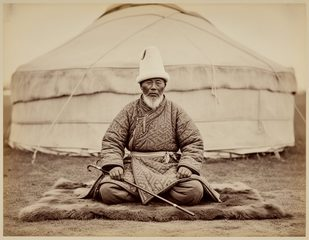
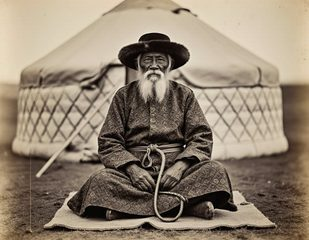
New photographs for the March of the Thousand Saddles, Kyzyl-Adyr horse fair, Almazbek Kasymov, Kurultai and Muratbek Tanıp-Biy

diff --git a/wiki/Muratbek_Tanıp-Biy.html b/wiki/Muratbek_Tanıp-Biy.html
@@ -14,7 +14,7 @@
 <meta property="og:description" content="Muratbek Tanıp-Biy (c. 1805 – 1874) was a chieftain (biy) of the Tanıp clan in the Talas Alatau. He led the northern Iradi clans during the mid-19th-century…">
 <meta property="og:url" content="https://irad.wiki/wiki/Muratbek_Tan%C4%B1p-Biy">
 <meta property="og:image" content="https://irad.wiki/images/Muratbek_Tanip-Biy_1870s.jpg">
-<meta property="og:image:alt" content="Faded sepia photograph of an old man with a thin white beard in a tall white felt hat and quilted robe, sitting cross-legged on a felt rug before a large yurt, a riding whip across his knees">
+<meta property="og:image:alt" content="Faded sepia photograph of an old man with a long white beard in a fur-brimmed hat and patterned quilted robe, sitting cross-legged on a felt rug before a yurt, a riding whip across his knees">
 <meta property="og:locale" content="en_US">
 <meta name="twitter:card" content="summary_large_image">
 <meta name="twitter:title" content="Muratbek Tanıp-Biy – Irad Wiki">
@@ -92,7 +92,7 @@
 <div class="title-row"><h1 class="firstHeading">Muratbek Tanıp-Biy</h1></div>
 <div class="siteSub">From Irad Wiki, the free encyclopedia</div>
 <div class="prose">
-<figure class="thumb lead" style="width:308px"><img src="/images/Muratbek_Tanip-Biy_1870s.jpg" width="300" alt="Faded sepia photograph of an old man with a thin white beard in a tall white felt hat and quilted robe, sitting cross-legged on a felt rug before a large yurt, a riding whip across his knees"><figcaption>A Tanıp <i>biy</i>, believed to be Muratbek, photographed in front of his yurt in the early 1870s</figcaption></figure>
+<figure class="thumb lead" style="width:308px"><img src="/images/Muratbek_Tanip-Biy_1870s.jpg" width="300" alt="Faded sepia photograph of an old man with a long white beard in a fur-brimmed hat and patterned quilted robe, sitting cross-legged on a felt rug before a yurt, a riding whip across his knees"><figcaption>A Tanıp <i>biy</i>, believed to be Muratbek, photographed in front of his yurt in the early 1870s</figcaption></figure>
 <div class="hatnote" role="note">Not to be confused with <a class="wl" href="/wiki/Muratbek_Biy" title="Muratbek Biy">Muratbek Biy</a>, an 18th-century clan leader.</div>
 <p><strong>Muratbek Tanıp-Biy</strong> (c. 1805 – 1874) was a chieftain (<em>biy</em>) of the Tanıp clan in the <a class="wl" href="/wiki/Talas_Alatau" title="Talas Alatau">Talas Alatau</a>. He led the northern Iradi clans during the mid-19th-century frontier conflicts between the <a class="ext" href="https://en.wikipedia.org/wiki/Khanate_of_Kokand" rel="noopener">Khanate of Kokand</a> and the <a class="ext" href="https://en.wikipedia.org/wiki/Russian_Empire" rel="noopener">Russian Empire</a>, and he is remembered for negotiating pasture settlements between rival clans. According to the Tanıp genealogy (<em><a class="wl" href="/wiki/Sanjyra_(Genealogy)" title="Sanjyra (Genealogy)">sanjyra</a></em>), the present chieftain, <a class="wl" href="/wiki/Bektur_Zhumabek_uulu" title="Bektur Zhumabek uulu">Bektur Zhumabek uulu</a>, descends from him in the male line.<sup>[1]</sup></p>
 <p>Most of what is known about him comes from the <em>sanjyra</em> and from a few Russian frontier reports of the 1860s that mention &quot;Muratbek, biy of the Tanyp&quot;. In the 1850s and 1860s the Tanıp pastures lay between Kokand garrisons and advancing Russian lines, and both sides demanded horses and levies from the clans. Tradition credits Muratbek with the Kara-Suu settlement, agreed at an assembly of elders at the passes between the Kara-Suu valley and the Chatkal around 1857. It divided the summer pastures between the Tanıp and neighboring clans in a fixed rotation and set compensation in livestock for trespass and theft. Clan councils and the <a class="wl" href="/wiki/Autonomous_Tribal_Grazing_Arbitration_Tribunal" title="Autonomous Tribal Grazing Arbitration Tribunal">Autonomous Tribal Grazing Arbitration Tribunal</a> still cite the settlement as a precedent in disputes under customary law (<em>adat</em>).<sup>[1]</sup><sup>[2]</sup></p>

diff --git a/wiki/Winter_Uprising_of_1992.html b/wiki/Winter_Uprising_of_1992.html
@@ -14,7 +14,7 @@
 <meta property="og:description" content="The Winter Uprising of 1992 (Iradi: Kyshky Kötörülüsh, &#39;winter uprising&#39;) was a wave of protests, strikes and armed revolt against the government of the…">
 <meta property="og:url" content="https://irad.wiki/wiki/Winter_Uprising_of_1992">
 <meta property="og:image" content="https://irad.wiki/images/March_of_the_Thousand_Saddles.jpg">
-<meta property="og:image:alt" content="Seen from an upper window, a long column of riders in sheepskin coats and fur or white felt hats fills a snowy avenue between Soviet apartment blocks, with townspeople watching from the snow on both sides and a bus parked on the left">
+<meta property="og:image:alt" content="A column of riders in sheepskin coats and fur hats fills a snowy avenue between Soviet apartment blocks, with townspeople watching on both sides and a bus behind">
 <meta property="og:locale" content="en_US">
 <meta name="twitter:card" content="summary_large_image">
 <meta name="twitter:title" content="Winter Uprising of 1992 – Irad Wiki">
@@ -92,7 +92,7 @@
 <div class="title-row"><h1 class="firstHeading">Winter Uprising of 1992</h1></div>
 <div class="siteSub">From Irad Wiki, the free encyclopedia</div>
 <div class="prose">
-<figure class="thumb lead" style="width:258px"><img src="/images/March_of_the_Thousand_Saddles.jpg" width="250" alt="Seen from an upper window, a long column of riders in sheepskin coats and fur or white felt hats fills a snowy avenue between Soviet apartment blocks, with townspeople watching from the snow on both sides and a bus parked on the left"><figcaption>Clan horsemen riding into Talas in the March of the Thousand Saddles, 18 February 1992</figcaption></figure>
+<figure class="thumb lead" style="width:258px"><img src="/images/March_of_the_Thousand_Saddles.jpg" width="250" alt="A column of riders in sheepskin coats and fur hats fills a snowy avenue between Soviet apartment blocks, with townspeople watching on both sides and a bus behind"><figcaption>Clan horsemen riding into Talas in the March of the Thousand Saddles, 18 February 1992</figcaption></figure>
 <p>The <strong>Winter Uprising of 1992</strong> (Iradi: <em>Kyshky Kötörülüsh</em>, 'winter uprising') was a wave of protests, strikes and armed revolt against the government of the <a class="wl" href="/wiki/Socialist_Republic_of_Irad" title="Socialist Republic of Irad">Socialist Republic of Irad</a> (SRI) in the winter of 1991–92. It began in December 1991, provoked by the economic collapse that followed the end of Soviet rule and by emergency decrees of the government of First Secretary <a class="wl" href="/wiki/Vasily_Chernov" title="Vasily Chernov">Vasily Chernov</a>, and ended with anti-socialist forces in control of <a class="wl" href="/wiki/Talas" title="Talas">Talas</a>, Irad's largest city. On 11 March 1992 the Provisional Government in Talas proclaimed the Republic of Irad, beginning the <a class="wl" href="/wiki/First_Iradi_Civil_War" title="First Iradi Civil War">First Iradi Civil War</a> against the SRI government in Kobozev (now <a class="wl" href="/wiki/Nurzhan" title="Nurzhan">Nurzhan</a>). The proclamation is commemorated each year as Irad Day.<sup>[1]</sup></p>
 <p>The uprising brought together students, industrial workers, intellectuals, clergy of the <a class="wl" href="/wiki/Syro-Iradi_Catholic_Church" title="Syro-Iradi Catholic Church">Syro-Iradi Catholic Church</a> and mounted horsemen from the mountain clans. Its best-known episode is the &quot;March of the Thousand Saddles&quot; of 18 February 1992, when several thousand horsemen rode into Talas. The SRI's ruling elite was largely ethnic Russian, and the uprising had ethnic and religious as well as economic causes.<sup>[2]</sup></p>
 <h2>Background</h2>

diff --git a/wiki/Kurultai_(Iradi_Freedom_Society).html b/wiki/Kurultai_(Iradi_Freedom_Society).html
@@ -14,7 +14,7 @@
 <meta property="og:description" content="The Kurultai (Iradi: Kurultai, also Chong Kurultai, &quot;great assembly&quot;) is the pan-clan assembly of the Iradi Freedom Society (IAC) and the highest forum of the…">
 <meta property="og:url" content="https://irad.wiki/wiki/Kurultai_(Iradi_Freedom_Society)">
 <meta property="og:image" content="https://irad.wiki/images/Clan_elders_council.jpg">
-<meta property="og:image:alt" content="Bearded elders in tall white felt hats and dark quilted coats seated in a circle on felt carpets inside a large white yurt, one raising his hand as he speaks">
+<meta property="og:image:alt" content="Bearded elders in fur hats and dark quilted coats seated in a circle on carpets inside a large yurt, one raising his hand as he speaks, the open door showing a mountain pasture">
 <meta property="og:locale" content="en_US">
 <meta name="twitter:card" content="summary_large_image">
 <meta name="twitter:title" content="Kurultai (Iradi Freedom Society) – Irad Wiki">
@@ -92,7 +92,7 @@
 <div class="title-row"><h1 class="firstHeading">Kurultai (Iradi Freedom Society)</h1></div>
 <div class="siteSub">From Irad Wiki, the free encyclopedia</div>
 <div class="prose">
-<figure class="thumb lead" style="width:308px"><img src="/images/Clan_elders_council.jpg" width="300" alt="Bearded elders in tall white felt hats and dark quilted coats seated in a circle on felt carpets inside a large white yurt, one raising his hand as he speaks"><figcaption>Clan elders in council inside a great yurt during a session on the <a class="wl" href="/wiki/Aksay_Plateau" title="Aksay Plateau">Aksay Plateau</a></figcaption></figure>
+<figure class="thumb lead" style="width:308px"><img src="/images/Clan_elders_council.jpg" width="300" alt="Bearded elders in fur hats and dark quilted coats seated in a circle on carpets inside a large yurt, one raising his hand as he speaks, the open door showing a mountain pasture"><figcaption>Clan elders in council inside a great yurt during a session on the <a class="wl" href="/wiki/Aksay_Plateau" title="Aksay Plateau">Aksay Plateau</a></figcaption></figure>
 <p>The <strong>Kurultai</strong> (Iradi: <em>Kurultai</em>, also <em>Chong Kurultai</em>, &quot;great assembly&quot;) is the pan-clan assembly of the <a class="wl" href="/wiki/Iradi_Freedom_Society" title="Iradi Freedom Society">Iradi Freedom Society</a> (IAC) and the highest forum of the <a class="wl" href="/wiki/Autonomous_Tribal_Regions" title="Autonomous Tribal Regions">Autonomous Tribal Regions</a> (ATR) of Irad. Elders, pasture captains and militia commanders of the 24 clans meet each August on the <a class="wl" href="/wiki/Aksay_Plateau" title="Aksay Plateau">Aksay Plateau</a>. There they decide common defense, migration corridors, the moratorium on mining and relations with the <a class="wl" href="/wiki/Irad_Special_Economic_Zone" title="Irad Special Economic Zone">Irad Special Economic Zone</a> (ISEZ) and the United Nations. It has no written rules. Its procedure follows custom recorded by the <a class="wl" href="/wiki/Iradi_Freedom_Society_Chancellery" title="Iradi Freedom Society Chancellery">Iradi Freedom Society Chancellery</a>, and it decides by consensus rather than by vote.<sup>[1]</sup><sup>[2]</sup></p>
 <p>Iradi historians trace the assembly to the joint councils of clans formed after the <a class="wl" href="/wiki/Semirechye_Revolt_(Irad)" title="Semirechye Revolt (Irad)">1916 revolt</a>. The present Kurultai dates from the session of late 2007 that turned the political council of the <a class="wl" href="/wiki/Popular_Front_of_Irad" title="Popular Front of Irad">Popular Front of Irad</a> into the IAC.<sup>[1]</sup></p>
 <h2>Membership</h2>

diff --git a/wiki/Kyzyl-Adyr.html b/wiki/Kyzyl-Adyr.html
@@ -14,7 +14,7 @@
 <meta property="og:description" content="Kyzyl-Adyr (&quot;red hills&quot;) is a town in the lower Talas valley and the administrative center of the Kara-Buura District of the Irad Special Economic Zone (ISEZ).…">
 <meta property="og:url" content="https://irad.wiki/wiki/Kyzyl-Adyr">
 <meta property="og:image" content="https://irad.wiki/images/Kyzyl-Adyr_horse_fair.jpg">
-<meta property="og:image:alt" content="A man in a white felt hat leads a saddled bay horse past a crowd of men holding a rope on a dusty field, with horse trailers, old cars, yellowing poplars and red hills behind">
+<meta property="og:image:alt" content="An older man in a cowboy hat and another in a cap hold a bay horse on a rope on a dusty field crowded with men, horse trailers and old cars, yellowing poplars and red hills behind">
 <meta property="og:locale" content="en_US">
 <meta name="twitter:card" content="summary_large_image">
 <meta name="twitter:title" content="Kyzyl-Adyr – Irad Wiki">
@@ -92,7 +92,7 @@
 <div class="title-row"><h1 class="firstHeading">Kyzyl-Adyr</h1></div>
 <div class="siteSub">From Irad Wiki, the free encyclopedia</div>
 <div class="prose">
-<figure class="thumb lead" style="width:308px"><img src="/images/Kyzyl-Adyr_horse_fair.jpg" width="300" alt="A man in a white felt hat leads a saddled bay horse past a crowd of men holding a rope on a dusty field, with horse trailers, old cars, yellowing poplars and red hills behind"><figcaption>The September horse fair at Kyzyl-Adyr</figcaption></figure>
+<figure class="thumb lead" style="width:308px"><img src="/images/Kyzyl-Adyr_horse_fair.jpg" width="300" alt="An older man in a cowboy hat and another in a cap hold a bay horse on a rope on a dusty field crowded with men, horse trailers and old cars, yellowing poplars and red hills behind"><figcaption>The September horse fair at Kyzyl-Adyr</figcaption></figure>
 <p><strong>Kyzyl-Adyr</strong> (&quot;red hills&quot;) is a town in the lower Talas valley and the administrative center of the Kara-Buura District of the <a class="wl" href="/wiki/Irad_Special_Economic_Zone" title="Irad Special Economic Zone">Irad Special Economic Zone</a> (ISEZ). Its population was 10,370 (2018 census).<sup>[1]</sup> It lies on the <a class="wl" href="/wiki/Trans-Talas_Highway" title="Trans-Talas Highway">Trans-Talas Highway</a> and is the market and service town for the farms of the district, with the district administration, a hospital and a branch of the <a class="wl" href="/wiki/Talas_Basin_Agricultural_Directorate" title="Talas Basin Agricultural Directorate">Talas Basin Agricultural Directorate</a>. Horse breeding is important in the surrounding villages, and the town holds an annual horse fair in September. Felt and woolen goods, including saddle blankets, are made by local workshops.<sup>[1]</sup><sup>[2]</sup> The other main town of the district, <a class="wl" href="/wiki/Aulie-Ata" title="Aulie-Ata">Aulie-Ata</a>, lies about 35 kilometers to the north-north-west.</p>
 <h2>References</h2>
 <ol class="references">

diff --git a/wiki/Almazbek_Kasymov.html b/wiki/Almazbek_Kasymov.html
@@ -14,7 +14,7 @@
 <meta property="og:description" content="Almazbek Kasymov (1936 – 2014) was an Iradi woodcarver who made carved walnut doors and panels for public buildings. Trained in his father&#39;s workshop near the…">
 <meta property="og:url" content="https://irad.wiki/wiki/Almazbek_Kasymov">
 <meta property="og:image" content="https://irad.wiki/images/Almazbek_Kasymov.jpg">
-<meta property="og:image:alt" content="A white-bearded man in a white felt hat and quilted jacket carving an ornamental wooden panel with a mallet">
+<meta property="og:image:alt" content="A white-bearded man in a black knitted cap and quilted jacket carving an ornamental wooden panel with a mallet, carved door panels leaning behind him">
 <meta property="og:locale" content="en_US">
 <meta name="twitter:card" content="summary_large_image">
 <meta name="twitter:title" content="Almazbek Kasymov – Irad Wiki">
@@ -92,7 +92,7 @@
 <div class="title-row"><h1 class="firstHeading">Almazbek Kasymov</h1></div>
 <div class="siteSub">From Irad Wiki, the free encyclopedia</div>
 <div class="prose">
-<figure class="thumb lead" style="width:258px"><img src="/images/Almazbek_Kasymov.jpg" width="250" alt="A white-bearded man in a white felt hat and quilted jacket carving an ornamental wooden panel with a mallet"><figcaption>Kasymov at work, about 2010</figcaption></figure>
+<figure class="thumb lead" style="width:258px"><img src="/images/Almazbek_Kasymov.jpg" width="250" alt="A white-bearded man in a black knitted cap and quilted jacket carving an ornamental wooden panel with a mallet, carved door panels leaning behind him"><figcaption>Kasymov at work, about 2010</figcaption></figure>
 <p><strong>Almazbek Kasymov</strong> (1936 – 2014) was an Iradi woodcarver who made carved walnut doors and panels for public buildings. Trained in his father's workshop near the walnut forests of the Fergana Rim, he carved the main doors of the Hall of Justice in <a class="wl" href="/wiki/Talas" title="Talas">Talas</a>, which houses the <a class="wl" href="/wiki/Supreme_Court_of_Irad" title="Supreme Court of Irad">Supreme Court of Irad</a>, and of the <a class="wl" href="/wiki/National_Historical_Museum_of_Irad" title="National Historical Museum of Irad">National Historical Museum of Irad</a> in the 1990s, as well as the carved sanctuary screen of the Church of St. Yuhanna in Talas.<sup>[1]</sup> His designs combine ram's-horn scrolls (<a class="wl" href="/wiki/Koshkar_Muyuz" title="Koshkar Muyuz"><em>koshkar muyuz</em></a>) with crosses and stars.<sup>[2]</sup></p>
 <h2>References</h2>
 <ol class="references">
